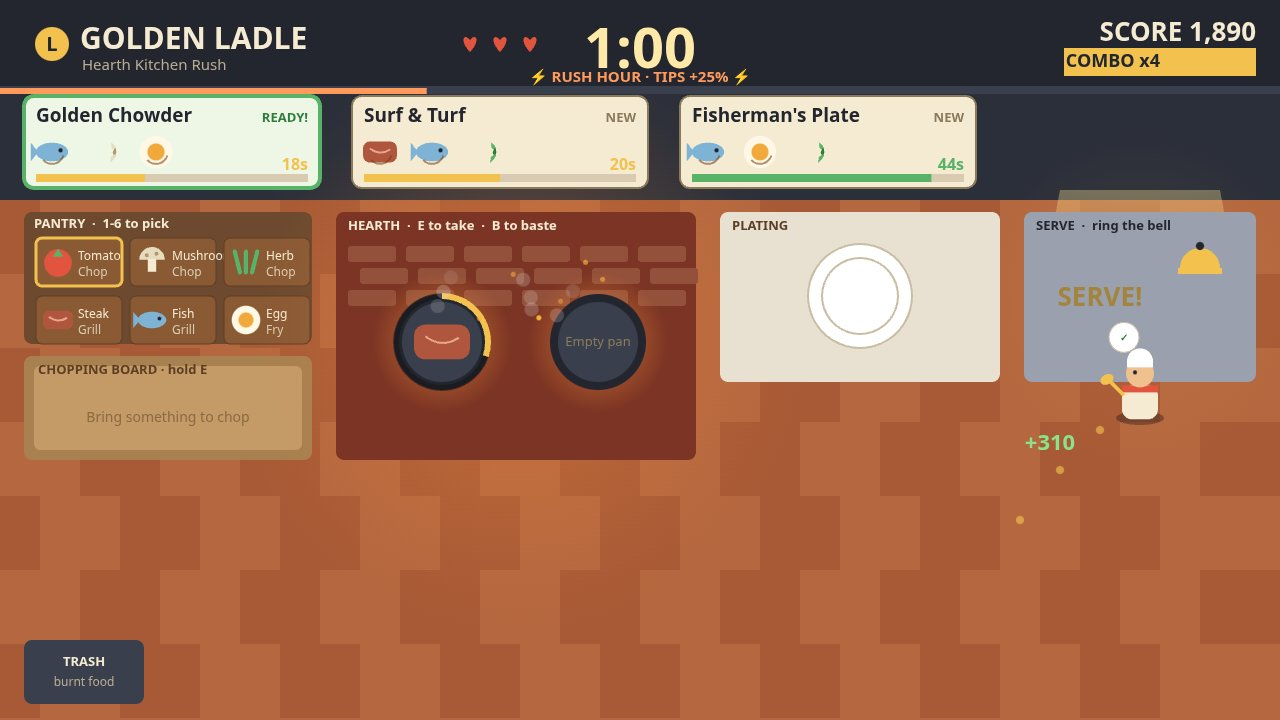
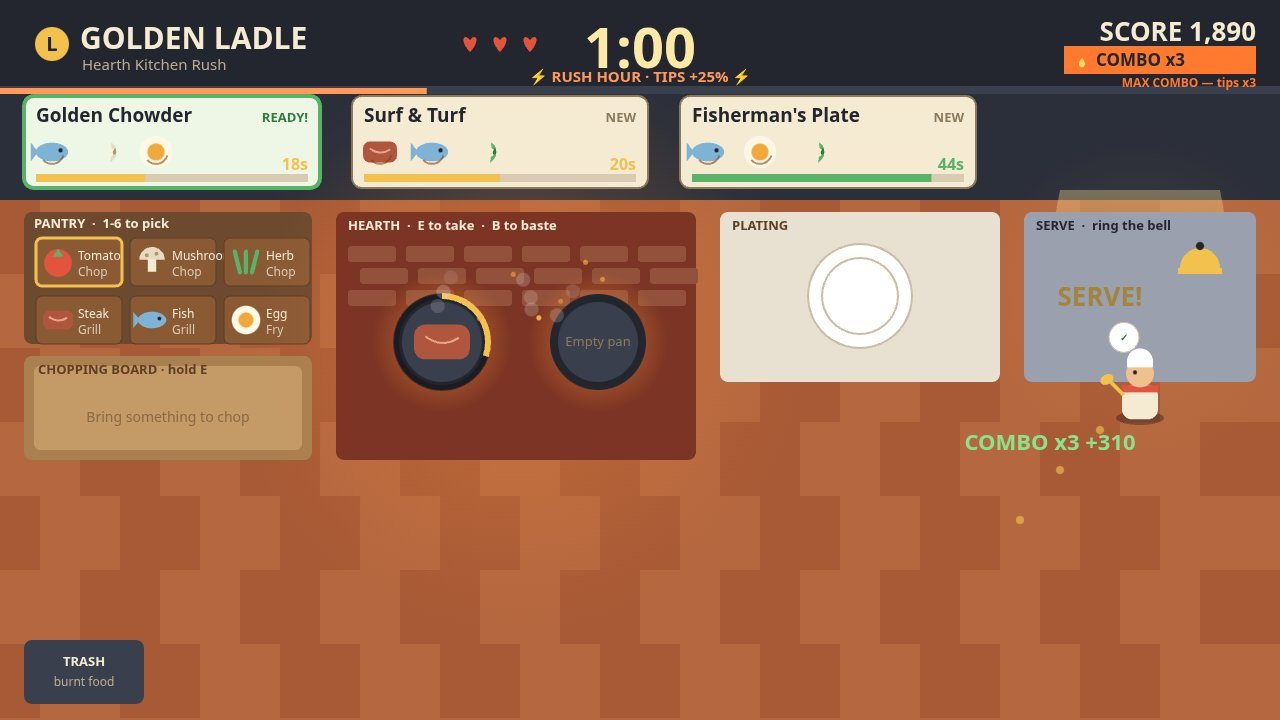
Golden Ladle v4: Combo Streak — x2 at 3 serves, x3 at 5+, flame meter in HUD, re-staged cover

Changed region(s): [[0.8125, 0.0611, 1.0, 0.1222], [0.75, 0.5806, 0.9062, 0.6417]]

diff --git a/game/src/hud.js b/game/src/hud.js
@@ -3,6 +3,7 @@
 // mostly through these, so every ticket state must read at a glance.
 
 import { dishById, finishedComponent } from './recipes.js';
+import { comboMultiplier, comboNextAt } from './kitchen.js';
 import { drawIngredientIcon } from './render.js';
 
 const CARD_W = 296;
@@ -20,6 +21,22 @@ function patienceColor(fraction) {
   if (fraction > 0.5) return '#58b368';
   if (fraction > 0.25) return '#f2c14e';
   return '#e2543e';
+}
+
+/** A small flame for the combo meter: orange teardrop, yellow heart. */
+function drawFlame(ctx, x, y, size) {
+  ctx.fillStyle = '#ff7a2f';
+  ctx.beginPath();
+  ctx.moveTo(x, y - size);
+  ctx.bezierCurveTo(x + size * 0.9, y - size * 0.2, x + size * 0.7, y + size * 0.8, x, y + size * 0.8);
+  ctx.bezierCurveTo(x - size * 0.7, y + size * 0.8, x - size * 0.9, y - size * 0.2, x, y - size);
+  ctx.fill();
+  ctx.fillStyle = '#ffd76a';
+  ctx.beginPath();
+  ctx.moveTo(x, y - size * 0.3);
+  ctx.bezierCurveTo(x + size * 0.5, y + size * 0.1, x + size * 0.4, y + size * 0.7, x, y + size * 0.7);
+  ctx.bezierCurveTo(x - size * 0.4, y + size * 0.7, x - size * 0.5, y + size * 0.1, x, y - size * 0.3);
+  ctx.fill();
 }
 
 /** Component keys the chef already has finished, on a station or in hand. */
@@ -97,21 +114,48 @@ export function drawTopBar(ctx, world) {
   ctx.fillStyle = golden ? '#f2c14e' : rush ? '#ff9a5c' : lowTime ? '#e2543e' : '#58b368';
   ctx.fillRect(0, 88, 1280 * dayFraction, 6);
 
-  // Score, combo and hearts, right.
+  // Score, combo streak meter and hearts, right.
   ctx.textAlign = 'right';
   ctx.fillStyle = '#f5ead2';
   ctx.font = 'bold 26px system-ui, sans-serif';
   ctx.fillText(`SCORE ${world.score.toLocaleString('en-US')}`, 1256, 34);
   if (world.combo >= 2) {
-    ctx.fillStyle = '#f2c14e';
-    ctx.fillRect(1064, 48, 192, 28);
+    // The streak meter: a flame, the live multiplier, and pips counting
+    // the serves toward the next tier — readable at a glance when shrunk.
+    const multiplier = comboMultiplier(world.combo);
+    const nextAt = comboNextAt(world.combo);
+    ctx.fillStyle = multiplier >= 3 ? '#ff7a2f' : '#f2c14e';
+    ctx.fillRect(1064, 46, 192, 28);
+    drawFlame(ctx, 1082, 61, 9);
     ctx.fillStyle = '#23262f';
-    ctx.font = 'bold 18px system-ui, sans-serif';
-    ctx.fillText(`COMBO x${world.combo}`, 1160, 62);
+    ctx.font = 'bold 17px system-ui, sans-serif';
+    ctx.textAlign = 'left';
+    ctx.fillText(`COMBO x${multiplier}`, 1096, 61);
+    if (nextAt !== null) {
+      const filled = Math.min(world.combo, nextAt);
+      for (let pip = 0; pip < nextAt; pip += 1) {
+        ctx.fillStyle = pip < filled ? '#23262f' : 'rgba(35, 38, 47, 0.35)';
+        ctx.beginPath();
+        ctx.arc(1212 + pip * 9.5, 60, 3.5, 0, Math.PI * 2);
+        ctx.fill();
+      }
+      ctx.fillStyle = '#f2c14e';
+      ctx.font = '12px system-ui, sans-serif';
+      ctx.textAlign = 'right';
+      ctx.fillText(`${nextAt - world.combo} more for COMBO x${comboMultiplier(nextAt)}`, 1256, 84);
+    } else {
+      ctx.fillStyle = '#ff7a2f';
+      ctx.font = 'bold 12px system-ui, sans-serif';
+      ctx.textAlign = 'right';
+      ctx.fillText('MAX COMBO — tips x3', 1256, 84);
+    }
   } else {
     ctx.fillStyle = '#b9ac93';
     ctx.font = '15px system-ui, sans-serif';
-    ctx.fillText(`Served ${world.served}  ·  Best combo x${world.bestCombo}`, 1256, 66);
+    ctx.fillText(`Served ${world.served}  ·  Best combo x${world.bestCombo}`, 1256, 60);
+    ctx.fillStyle = '#f2c14e';
+    ctx.font = '13px system-ui, sans-serif';
+    ctx.fillText('Serve 3 in a row for COMBO x2', 1256, 80);
   }
   // Hearts sit under the title, left of the clock.
   for (let index = 0; index < 3; index += 1) {
@@ -231,7 +275,7 @@ export function drawTitleOverlay(ctx, world) {
     'grill them on the hearth, plate the dish and ring the bell.',
     'Move: WASD / arrows or click  ·  Use: E or Space (hold to chop)',
     'Baste with B to hold a burn and earn a tip  ·  1-6 picks a crate',
-    'Serve fast: tips shrink as patience runs out. Three strikes and the day ends.',
+    'Serve fast: tips shrink as patience runs out — 3 serves in a row pays x2, 5 pays x3.',
     'Rush Hour pays +25% twice a day. Golden Hour (last 30s) pays double.',
   ], 'Press Enter or click to start cooking');
   void world;

diff --git a/game/src/kitchen.js b/game/src/kitchen.js
@@ -24,6 +24,23 @@ export const RUSH_HOUR_WINDOWS = [[60, 80], [120, 140]];
 export const RUSH_TIP_BONUS = 0.25;
 export const RUSH_SPAWN_SECONDS = 0.6;
 
+// Combo Streak: dishes served one after another, with no ticket walking
+// out in between, build a tip multiplier — 3 in a row pays double, 5 or
+// more pays triple. One expired ticket breaks the streak back to zero, so
+// the streak is the reason to save the ticket that is about to leave.
+export function comboMultiplier(streak) {
+  if (streak >= 5) return 3;
+  if (streak >= 3) return 2;
+  return 1;
+}
+
+/** The streak a cook must reach for the next multiplier tier, or null at the top. */
+export function comboNextAt(streak) {
+  if (streak < 3) return 3;
+  if (streak < 5) return 5;
+  return null;
+}
+
 // Station rectangles on the 1280x720 floor, and the spot the chef stands on
 // to use each one. Stations hug the back wall; the chef works the floor below.
 export const STATIONS = {
@@ -410,16 +427,25 @@ export class KitchenWorld {
       const ticket = this.tickets[ticketIndex];
       const dish = dishById(ticket.dishId);
       const tip = Math.round(dish.price * 0.5 * (ticket.patience / ticket.max)) + (plateItem.basted ? BASTE_TIP : 0);
-      const multiplier = 1 + 0.25 * Math.min(this.combo, 8);
+      const streak = this.combo + 1;
+      const multiplier = comboMultiplier(streak);
       const golden = this.goldenHour();
       const rush = this.rushHour();
       const earned = Math.round((dish.price + tip) * multiplier * (golden ? 2 : 1) * (rush ? 1 + RUSH_TIP_BONUS : 1));
       this.score += earned;
-      this.combo += 1;
+      this.combo = streak;
       this.bestCombo = Math.max(this.bestCombo, this.combo);
       this.served += 1;
       this.passDish = { dishId: dish.id, life: 2.5 };
-      this.addFloater(1140, 240, golden ? `GOLDEN +${earned}` : rush ? `RUSH +${earned}` : `+${earned}`, '#ffd76a');
+      const comboTag = multiplier > 1 ? `COMBO x${multiplier} ` : '';
+      this.addFloater(1140, 240, golden ? `GOLDEN ${comboTag}+${earned}` : rush ? `RUSH ${comboTag}+${earned}` : `${comboTag}+${earned}`, '#ffd76a');
+      if (streak === 3) {
+        this.addFloater(640, 200, 'COMBO x2! Tips doubled — keep the streak alive!', '#ff9a5c');
+        events.push('combo');
+      } else if (streak === 5) {
+        this.addFloater(640, 200, 'COMBO x3! Tips tripled — the kitchen is on fire!', '#ff9a5c');
+        events.push('combo');
+      }
       chef.carrying.splice(chef.carrying.indexOf(plateItem), 1);
       this.tickets.splice(ticketIndex, 1);
       this.spawnIn = this.rushHour() ? RUSH_SPAWN_SECONDS : this.elapsed > 120 ? 0.8 : 1.2;
@@ -511,6 +537,9 @@ export class KitchenWorld {
     for (const ticket of expired) {
       this.tickets.splice(this.tickets.indexOf(ticket), 1);
       this.hearts -= 1;
+      if (this.combo >= 2) {
+        this.addFloater(640, 175, `Combo streak x${this.combo} broken!`, '#ff8a7a');
+      }
       this.combo = 0;
       this.lost += 1;
       this.addFloater(640, 150, `${dishById(ticket.dishId).name} walked out!`, '#ff8a7a');

diff --git a/game/src/main.js b/game/src/main.js
@@ -4,7 +4,7 @@
 // it stages one screenshot scene and draws exactly one frozen frame; with
 // ?selftest=1 it drives the rules headlessly and reports PASS or FAIL.
 
-import { KitchenWorld } from './kitchen.js';
+import { KitchenWorld, comboMultiplier, comboNextAt } from './kitchen.js';
 import { DISHES } from './recipes.js';
 import { renderKitchenFrame } from './render.js';
 import { drawTitleOverlay, drawPauseOverlay, drawGameOverOverlay } from './hud.js';
@@ -206,6 +206,38 @@ function runSelfTest() {
   ];
   feastWorld.refreshPlateDish();
   check('plate completes Harvest Feast', feastWorld.plate.dishId === 'harvest-feast');
+
+  // 9. Combo Streak: the 3rd serve in a row pays double, the 5th pays
+  // triple, and one expired ticket breaks the streak back to zero.
+  check('combo tiers are x1/x2/x3 at streaks 0/3/5', comboMultiplier(0) === 1 && comboMultiplier(2) === 1 && comboMultiplier(3) === 2 && comboMultiplier(4) === 2 && comboMultiplier(5) === 3 && comboMultiplier(9) === 3);
+  check('combo next tier is 3, then 5, then none', comboNextAt(0) === 3 && comboNextAt(4) === 5 && comboNextAt(5) === null);
+  const comboWorld = new KitchenWorld(16);
+  const serveEmberSurf = () => {
+    comboWorld.tickets = [{ uid: 1, dishId: 'ember-surf', patience: 45, max: 45 }];
+    comboWorld.plate.pieces = [
+      { kind: 'piece', ingredient: 'steak', state: 'cooked', basted: false },
+      { kind: 'piece', ingredient: 'fish', state: 'cooked', basted: false },
+    ];
+    comboWorld.refreshPlateDish();
+    comboWorld.chef.x = 860;
+    comboWorld.chef.y = 402;
+    comboWorld.step(0.05, { ...idle, usePressed: true });
+    comboWorld.chef.x = 1140;
+    comboWorld.chef.y = 402;
+    const before = comboWorld.score;
+    comboWorld.step(0.05, { ...idle, usePressed: true });
+    return comboWorld.score - before;
+  };
+  const firstServe = serveEmberSurf();
+  serveEmberSurf();
+  const thirdServe = serveEmberSurf();
+  check('third straight serve pays double', comboWorld.combo === 3 && thirdServe === firstServe * 2);
+  serveEmberSurf();
+  const fifthServe = serveEmberSurf();
+  check('fifth straight serve pays triple', comboWorld.combo === 5 && fifthServe === firstServe * 3);
+  comboWorld.tickets = [{ uid: 9, dishId: 'ember-steak', patience: 0.05, max: 40 }];
+  comboWorld.step(0.1, { ...idle });
+  check('expired order breaks the combo streak', comboWorld.combo === 0 && comboWorld.lost >= 1);
 
   check('no network requests were made', performance.getEntriesByType('resource').every((entry) => !entry.name.startsWith('http') || entry.name.startsWith(window.location.origin)));
   return lines;

diff --git a/game/src/shots.js b/game/src/shots.js
@@ -34,19 +34,21 @@ function seedEmbers(world) {
   }
 }
 
-/** The cover: mid-Rush Hour (the orange banner is up, tips +25%), combo x4,
- *  three tickets in three states — one READY (the chef carries the finished
- *  Ladle Special to the pass), one mid-assembly on the plate (Harvest Feast,
- *  the grilled fish still missing, its ghost on the plate), one new — a pan
- *  sizzling, one near burn, a dish chopping, and the last serve still on the
- *  pass under its spotlight. */
+/** The cover: mid-Rush Hour (the orange banner is up, tips +25%), combo
+ *  streak x5 paying COMBO x3 — the flame meter, its five pips and the
+ *  "MAX COMBO" line all read at a glance — three tickets in three states:
+ *  one READY (the chef carries the finished Ladle Special to the pass),
+ *  one mid-assembly on the plate (Harvest Feast, the grilled fish still
+ *  missing, its ghost on the plate), one new — a pan sizzling, one near
+ *  burn, a dish chopping, and the last serve still on the pass under its
+ *  spotlight. */
 function stageCover(world) {
   world.reset();
   world.elapsed = 130;
   world.dayLeft = 50;
   world.score = 1890;
-  world.combo = 4;
-  world.bestCombo = 4;
+  world.combo = 5;
+  world.bestCombo = 5;
   world.served = 12;
   world.tickets = [];
   setTicket(world, 0, 'ladle-special', 18, 45);
@@ -70,7 +72,7 @@ function stageCover(world) {
     basted: true,
   }];
   seedTrail(world, [[880, 560], [920, 545], [960, 532]]);
-  world.addFloater(1140, 420, '+310', '#8be28b');
+  world.addFloater(1140, 420, 'COMBO x3 +465', '#8be28b');
   seedEmbers(world);
 }
 
@@ -104,14 +106,15 @@ function stageAssembly(world) {
 }
 
 /** The serve: the chef carries a finished Golden Chowder to the pass, the
- *  ticket is stamped READY and the SERVE! prompt is lit. */
+ *  ticket is stamped READY, the SERVE! prompt is lit, and the streak sits
+ *  at five — COMBO x3 on the meter and on the serve floater. */
 function stageServe(world) {
   world.reset();
   world.elapsed = 120;
   world.dayLeft = 60;
   world.score = 1890;
-  world.combo = 4;
-  world.bestCombo = 4;
+  world.combo = 5;
+  world.bestCombo = 5;
   world.served = 12;
   world.tickets = [];
   setTicket(world, 0, 'golden-chowder', 18, 45);
@@ -129,7 +132,7 @@ function stageServe(world) {
     basted: true,
   }];
   seedTrail(world, [[1020, 520], [1060, 470], [1100, 430]]);
-  world.addFloater(1050, 450, '+310', '#8be28b');
+  world.addFloater(1050, 450, 'COMBO x3 +310', '#8be28b');
   seedEmbers(world);
 }
 

diff --git a/game/src/audio.js b/game/src/audio.js
@@ -65,6 +65,7 @@ export function createSoundboard() {
       else if (event === 'cook-done') tone(880, 0.15, 'sine', 0.12, 1320);
       else if (event === 'burnt') tone(180, 0.3, 'sawtooth', 0.1, 90);
       else if (event === 'serve') { tone(660, 0.12, 'sine', 0.14); setTimeout(() => tone(990, 0.2, 'sine', 0.14), 110); }
+      else if (event === 'combo') { tone(660, 0.1, 'triangle', 0.14); setTimeout(() => tone(880, 0.1, 'triangle', 0.14), 90); setTimeout(() => tone(1320, 0.22, 'triangle', 0.14), 180); }
       else if (event === 'plate-ready') tone(740, 0.12, 'triangle', 0.12, 1100);
       else if (event === 'baste') noiseBurst(0.12, 0.1);
       else if (event === 'expire') tone(320, 0.35, 'sawtooth', 0.1, 140);

diff --git a/README.md b/README.md
@@ -4,7 +4,7 @@
 [![rank](https://make.fun/badge/best-cooking-game-20261125-0137/fadlisick/golden-ladle-entry/rank.svg)](https://make.fun/bounty/best-cooking-game-20261125-0137/leaderboard?utm_source=github&utm_medium=readme&utm_campaign=best-cooking-game-20261125-0137)
 [![reward](https://make.fun/badge/best-cooking-game-20261125-0137/fadlisick/golden-ladle-entry/reward.svg)](https://make.fun/bounty/best-cooking-game-20261125-0137?utm_source=github&utm_medium=readme&utm_campaign=best-cooking-game-20261125-0137)
 
-A complete timed cooking game: run a warm hearth kitchen, work the order board, and serve dishes before their patience runs out. Grab ingredients from the pantry, chop them on the board, grill them on the hearth, plate the dish, and ring the bell at the serve pass. Baste with the golden ladle to hold a burn off and earn a tip. Twelve dishes on the menu, Rush Hour twice a day (orders flood in, tips +25%), and the last 30 seconds of the day are Golden Hour: every tip pays double.
+A complete timed cooking game: run a warm hearth kitchen, work the order board, and serve dishes before their patience runs out. Grab ingredients from the pantry, chop them on the board, grill them on the hearth, plate the dish, and ring the bell at the serve pass. Baste with the golden ladle to hold a burn off and earn a tip. Twelve dishes on the menu, Rush Hour twice a day (orders flood in, tips +25%), and the last 30 seconds of the day are Golden Hour: every tip pays double. Chain serves into a Combo Streak: 3 dishes in a row pays double, 5 pays triple — but one order walking out breaks the streak.
 
 ## Play it
 
